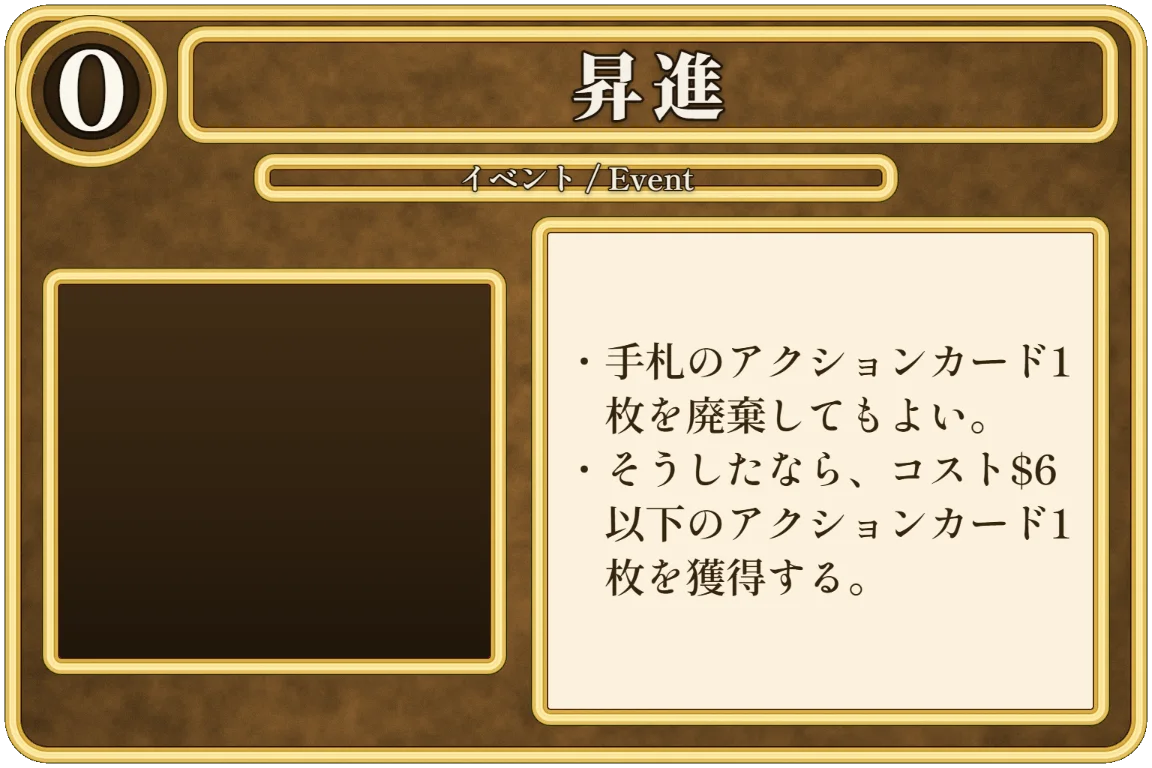
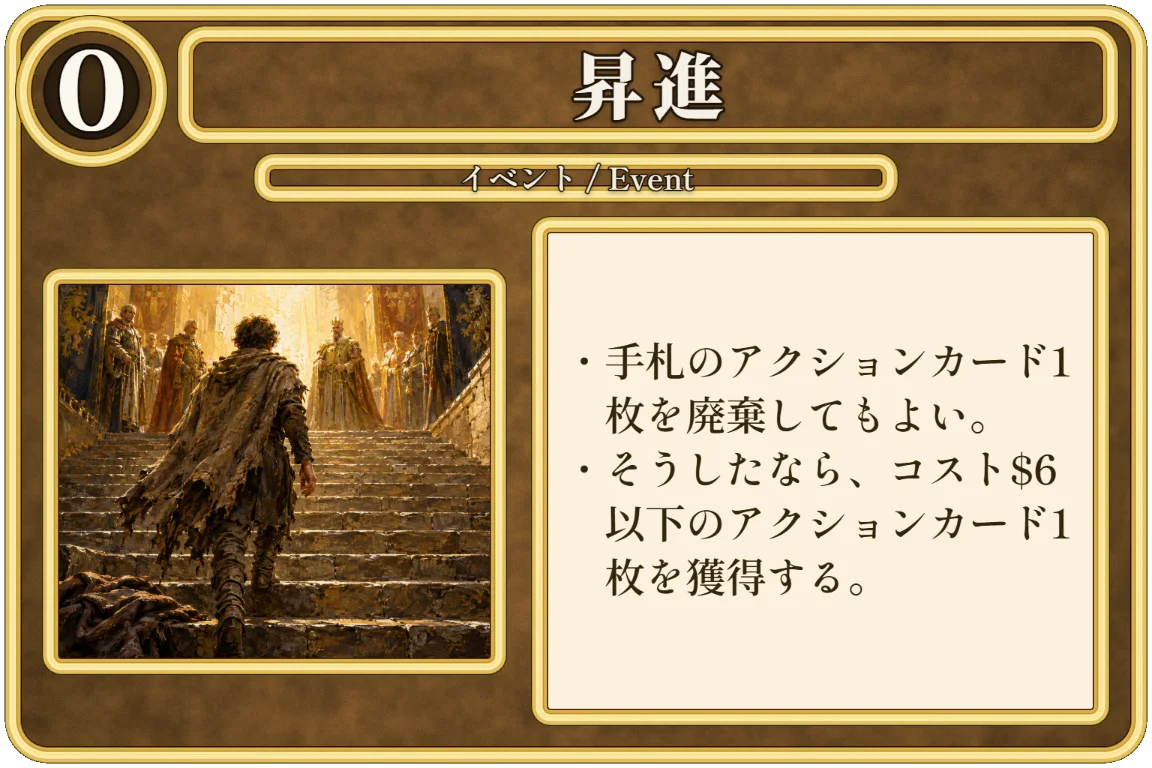
feat(art): 帝国イベント13種の絵を回収して webp を焼き直し（これで全450枚に絵が入った）
ユーザーがChatGPTで13枚生成（10枚＋3枚の2バッチ）→ 独立2系統の多エージェント視覚判別で
主題→id の全単射を確定（全13枚 high confidence・2系統一致・取り違え0・生成順どおり）→
asset/art/<id>.png に回収（sha1 で 13/13 完全一致を確認）→
CARDS_ONLY=<13ids> node tools/build-landscape.js で webp 再生成。

advance / annex / banquet / conquest / delve / dominate / donate / ritual /
salt_the_earth / tax / triumph / wedding / windfall
39〜60KB（枠＋文字だけの暗い板）→ 83〜118KB（絵入り）。
徴税・凱旋（負債の六角コスト）・制圧（$14）を目視確認。

これで全450枚（縦371＋横79）すべてに絵が入った＝枠＋文字だけの札はゼロ（実測）。
PROGRESS の「絵が無いのは帝国イベント13枚だけ」も解消として更新。

検証: npm test 全34スイート緑、verify:e2e 9/9（webp 371/0）。sw.js v55。

Changed region(s): [[0.0312, 0.3438, 0.4375, 0.875]]

diff --git a/sw.js b/sw.js
@@ -7,7 +7,7 @@
    - クロスオリジン（Google Fonts / WebSocket）は触らない。
    バージョンを上げると activate で旧キャッシュを全部捨てる。
    ============================================================ */
-const VERSION = 'v54';
+const VERSION = 'v55';
 const CACHE = 'dominion-' + VERSION;
 
 // オフラインに最低限必要なファイル（盤面サムネ含む・約1MB）

diff --git a/PROGRESS.md b/PROGRESS.md
@@ -104,17 +104,21 @@
 - CPUソーク 56戦（mix含む・完走56・保存則違反0・膠着0・`playAllResume` 297回・植民地終局20戦）。
 - 実Chrome での目視／CDP検証：IME（「むら」→「村」）・直近ログ帯の省略記号と重なり0px・検索/デッキ確認/1手もどすの画面。
 
+### ✅ 帝国イベント13種の絵（webp）回収＝完了（2026-08-07・`sw.js` v55）
+ユーザーがChatGPTで13枚生成（10枚＋3枚の2バッチ）→ **独立2系統の多エージェント視覚判別**（各系統が13枚を実見して
+主題→idの全単射を確定）＝**全13枚 high confidence で2系統一致・取り違え0・生成順どおり** → `asset/art/<id>.png` に回収
+（sha1 で13/13 完全一致を確認）→ `CARDS_ONLY=<13ids> node tools/build-landscape.js` で webp 再生成
+（39〜60KB の「枠＋文字だけ」→ **83〜118KB の絵入り**に）。徴税/凱旋（負債の六角コスト）/制圧（$14）を目視確認。
+**これで全450枚（縦371＋横79）すべてに絵が入った＝枠＋文字だけの札はゼロ**（実測で確認）。Downloads の原本は回収後に削除済み。
+
 ### 【次にやること】
-0. **敵対レビューの確定10件は修正済み（`sw.js` v54）＝push 済み**。
-1. **帝国イベント13種の絵（webp）回収**＝下記の「注意」参照。**現在、絵が無いのはこの13枚だけ**（全450枚を実測）。
-   指示文は scratchpad の `empires_events_art_prompt.md`（バッチA=10枚／バッチB=3枚）。
-2. **コミット＋push（ユーザー確認の上で）**＝`sw.js` v53。オンラインUndoはサーバ側コード変更があるので Render の再デプロイが要る。
+- **発売順の未着手拡張**（夜想曲／移動動物園／同盟／略奪／日の出づる国）＝段階1すら未着手。
 
 ### 注意（次セッションが知らないと事故る）
-- **PROGRESS の旧記述「実装済みの全カードに絵が入っている（枠＋文字だけの札はゼロ）」は誤りだった**。
-  **帝国イベント13種（advance/annex/banquet/conquest/delve/dominate/donate/ritual/salt_the_earth/tax/triumph/wedding/windfall）は
-  今も枠＋文字だけ**（`asset/art/<id>.png` が無く webp も 39〜60KB＝絵入りの 85〜125KB より明らかに小さい）。
-  再生成＝`CARDS_ONLY=<ids> node tools/build-landscape.js`（横型・このPCのみ）。
+- **絵の有無は「webp のファイルサイズ」で見分けられる**：枠＋文字だけの札は 39〜60KB、絵入りは 83〜125KB。
+  一括チェックは `DOM.CARDS` ＋ `DOM.LANDSCAPES` の全idについて `asset/art/<id>.png` の存在を見るのが確実
+  （2026-08-07 時点で欠けゼロ＝全450枚に絵あり）。再生成＝縦型 `CARDS_ONLY=<ids> node tools/build-cards.js`／
+  横型 `CARDS_ONLY=<ids> node tools/build-landscape.js`（**このPCのみ**＝入力の `images/`・`asset/art/` は gitignore）。
 - **新しい「財宝を出す順」を足すときは `playAllOrder` を直す**（PLAY_ALL_TREASURES と `playAllResume` の両方が同じ関数を見る）。
 - **PLAY_ALL_TREASURES が中断したら `turn.playAllResume` が立つ**。新しく「財宝を出す」経路や購入フェイズの出入りを作るときは、
   この旗が残って意図せず財宝を出し切らないか確認する（`treasuresLocked` と `freshTurn` で止まる設計）。
@@ -438,12 +442,11 @@ mix を解禁すると、PROGRESS §6 / §0-10 に**「どの出荷 CARD_SET で
 **【現在地】§0-24＝UX6件＋実バグ2件（1手もどす／終局後デッキ公開／カード検索／植民地の終了条件／ティアラの出す順）を実装し、
 **敵対レビュー確定10件（high 2件＝オンラインUndoの承認バイパス／検索のIME崩れ）も修正して push 済**（`sw.js` v54）。
 全34スイート緑（exit 0・prosperity 97・ui 119・server 70）／`verify:e2e` 9/9（webp 371/0）／`verify:visual` はみ出し0／CPU序列 100/64/95。
-【次にやること】① 帝国イベント13種の絵の回収（**絵が無いのはこの13枚だけ**＝下の注意参照）
-② ユーザー確認の上でコミット＋push（オンラインUndoはサーバ変更あり＝Render 再デプロイが要る）。
+【次にやること】**発売順の未着手拡張**（夜想曲／移動動物園／同盟／略奪／日の出づる国）。
 【次の大仕事】発売順の未着手拡張（夜想曲／移動動物園／同盟／略奪／日の出づる国）。**
 
-**【重要な訂正】「実装済みの全カードに絵が入っている」は誤り**＝**帝国イベント13種は今も枠＋文字だけ**
-（advance/annex/banquet/conquest/delve/dominate/donate/ritual/salt_the_earth/tax/triumph/wedding/windfall）。全450枚を実測して確認済み。
+**【2026-08-07】帝国イベント13種の絵も回収し、`sw.js` v55 で焼き直した＝これで本当に全450枚（縦371＋横79）に絵が入った**
+（枠＋文字だけの札はゼロ。実測確認済み）。
 
 **§0-23＝mix-all モード（拡張を自由に混ぜるランダム対戦）は配線＋エンジン硬化（23件）＋敵対レビュー（17件）まで
 完了し push 済（`189a1f4`・`sw.js` v52・本番反映を実機確認）＝実プレイ可能な13拡張を自由に混ぜて遊べる**
@@ -1264,9 +1267,9 @@ mix を解禁すると、PROGRESS §6 / §0-10 に**「どの出荷 CARD_SET で
 0. ~~mix-all モードのエンジン硬化＋push~~ ✅**完了（§0-23・push済 v52・本番反映確認済）**。
 1. **【最優先】次の拡張に着手する**（下記2の候補から選ぶ）。着手前に `docs/adding-cards.md` と §0-23 の「述語を使え」を必読。
 2. **次の拡張候補**（着手前に `docs/adding-cards.md` 必読）:
-   - **【未完】帝国イベント13種だけ絵が無い**（枠＋文字の暗い板のまま）。他は全部回収済み
-     ＝ルネサンス50枚（2026-07-13）／冒険イベント20種（2026-07-14）／帝国ランドマーク21種（2026-07-11）。
-     **全450枚（縦371＋横79）を走査して、`asset/art/<id>.png` が無いのはこの13枚だけと確認済み（2026-08-06）**。
+   - ✅**絵の回収は全部完了**＝ルネサンス50枚（2026-07-13）／冒険イベント20種（2026-07-14）／
+     帝国ランドマーク21種（2026-07-11）／**帝国イベント13種（2026-08-07）**。
+     **全450枚（縦371＋横79）を走査して `asset/art/<id>.png` の欠けゼロを確認済み（2026-08-07）**。
      再生成＝縦型 `CARDS_ONLY=<ids> node tools/build-cards.js`／横型 `CARDS_ONLY=<ids> node tools/build-landscape.js`（このPCのみ）。
    - **発売順の未着手拡張（段階1すら未着手＝画像・カタログとも無し）**：夜想曲/移動動物園/同盟/略奪/日の出づる国。
    - **✅段階2 完了済み拡張**：収穫祭(§0-2)／ギルド(§0-4)／異郷(§0-5)／新プロモ(§0-7)／暗黒時代 全56枚(§0-8)／冒険 全38枚(§0-9)／**帝国 縦型36枚(§0-10〜0-16)**＋**E8(§0-17)**＋**帝国ランドマーク21種＋絵(§0-19)**＋**帝国イベント13種(§0-20)**＋**冒険イベント20種(§0-21)**（すべて push 済）＋**ルネサンス全50枚(§0-22・未push)**。
